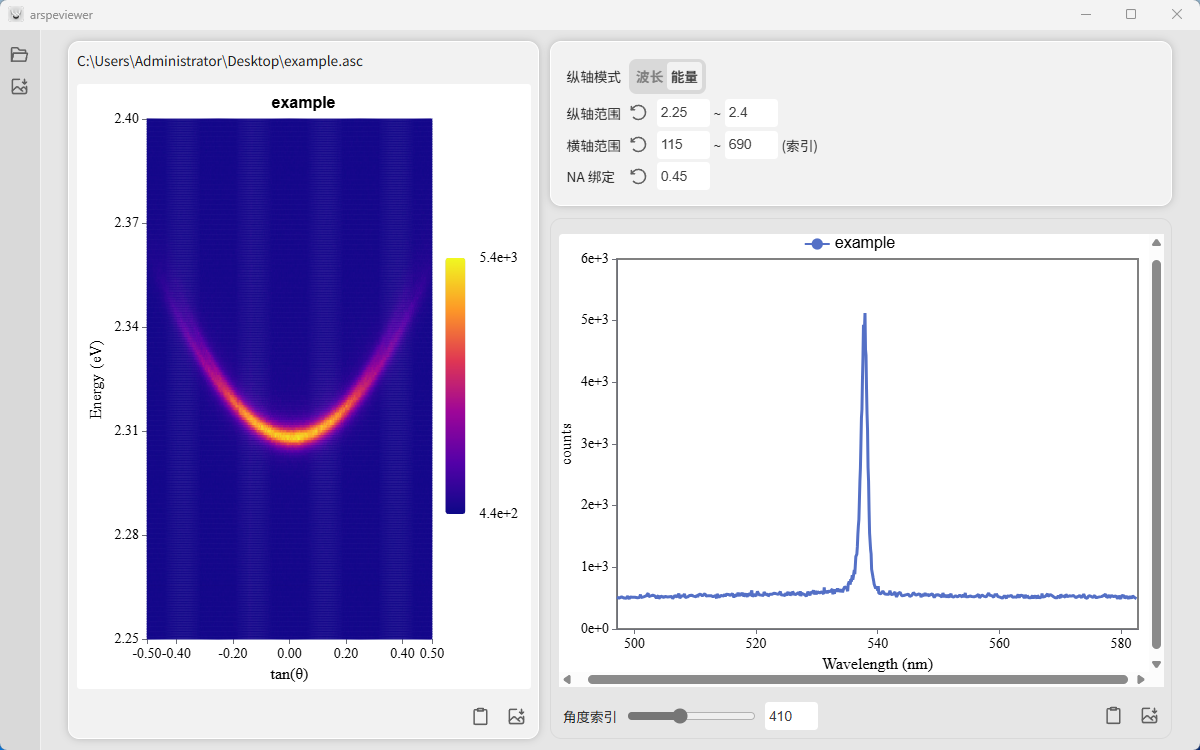
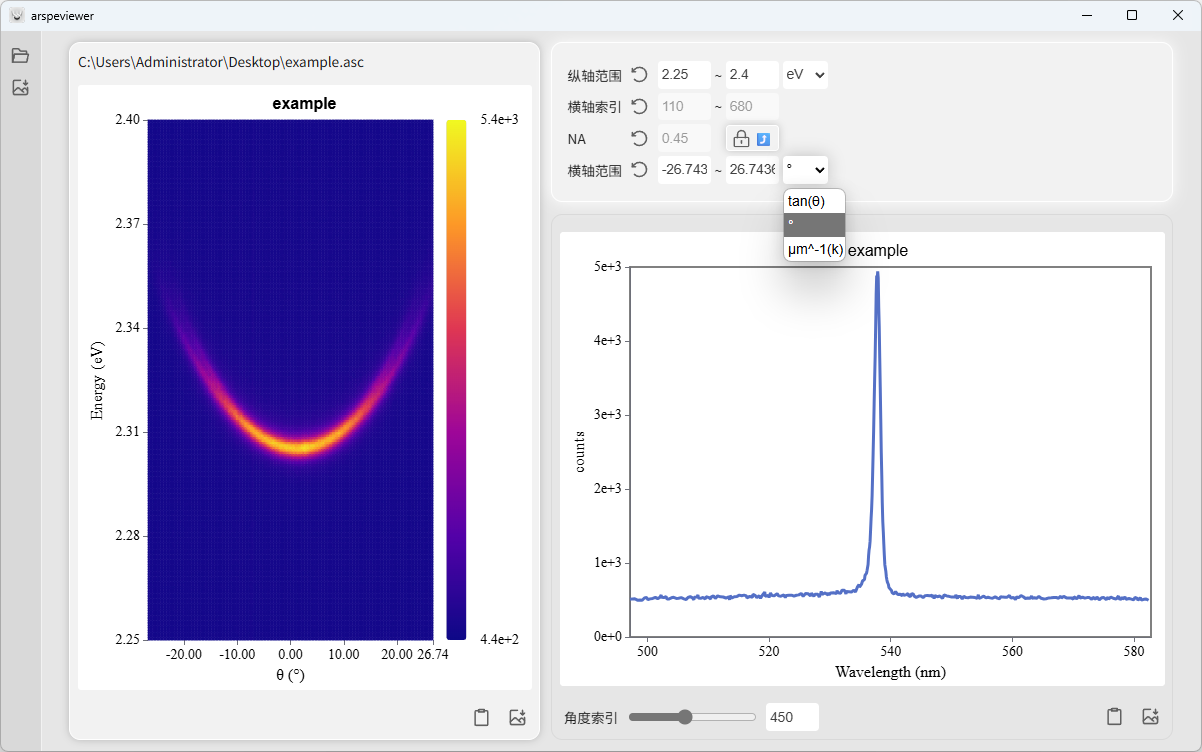
docs: update for new features

diff --git a/README.md b/README.md
@@ -10,15 +10,21 @@
 </h3>
 
 ## 下载安装
-支持 Windows 和 Mac OS([⚠注意事项](#mac-os-使用注意))，请到发布页下载对应的安装包：[Release page](https://github.com/prcxhy/ARSpeViewer/releases)<br>
+支持 Windows 和 Mac OS([⚠注意事项](#mac-os-使用注意))，请到发布页下载对应的安装包：[Release page](https://github.com/prcxhy/ARSpeViewer/releases)<br>
 
 ## 预览
 ![预览](./docs/preview.png)
 
 ## 功能
 - 角分辨光谱数据文件(*.spe, *.asc, *.txt, *.csv)的读取
-- 角分辨光谱heatmap基础绘图、剪裁和导出(图片保存、复制数据到剪贴板)
-- 角度切片光谱基础绘图和导出(图片保存、复制数据到剪贴板)
+- 角分辨光谱heatmap交互式绘图
+  - 多坐标轴模式切换，并基于插值准确mapping：**波长** *y* 轴、**能量** *y* 轴；**tan** *x* 轴、**角度** *x* 轴、**波矢*k*** *x* 轴
+  - 即时响应的图像 & 数据**同步裁剪**
+- 角度切片光谱即时响应绘图
+  - 单击heatmap数据点可显示对应角度的光谱切片
+- 光谱数据导出
+  - 图片保存(⚠仅供预览，勿代替正式科研绘图)
+  - 复制数据到剪贴板：采用制表符分隔，**可直接粘贴**到 Origin 或 Excel
 
 ## Mac OS 使用注意
 由于开发者没钱注册Apple开发者账号，无法给此应用合法签名，在Mac OS上安装后直接启动会提示文件损坏，采取以下步骤方可正常使用
